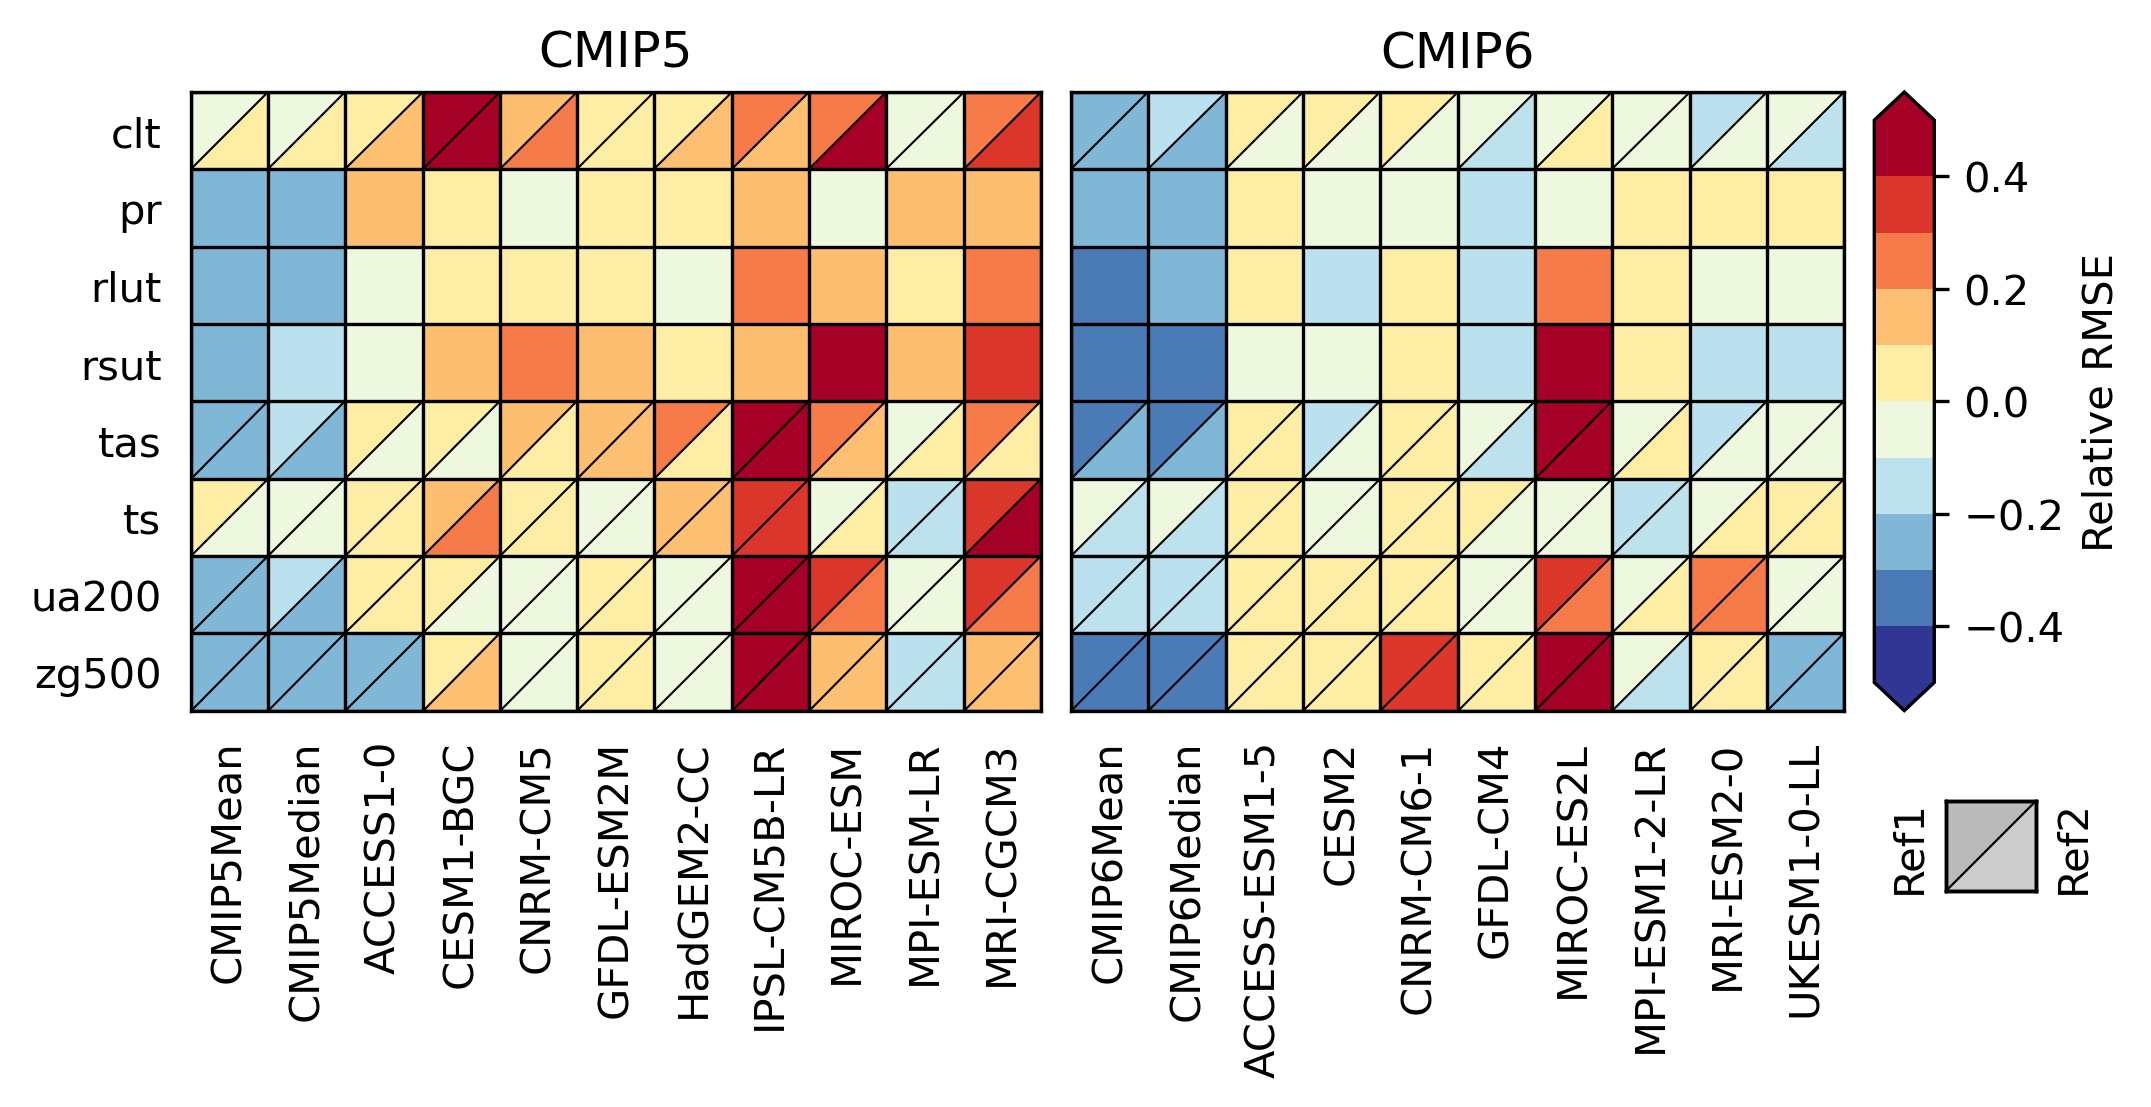
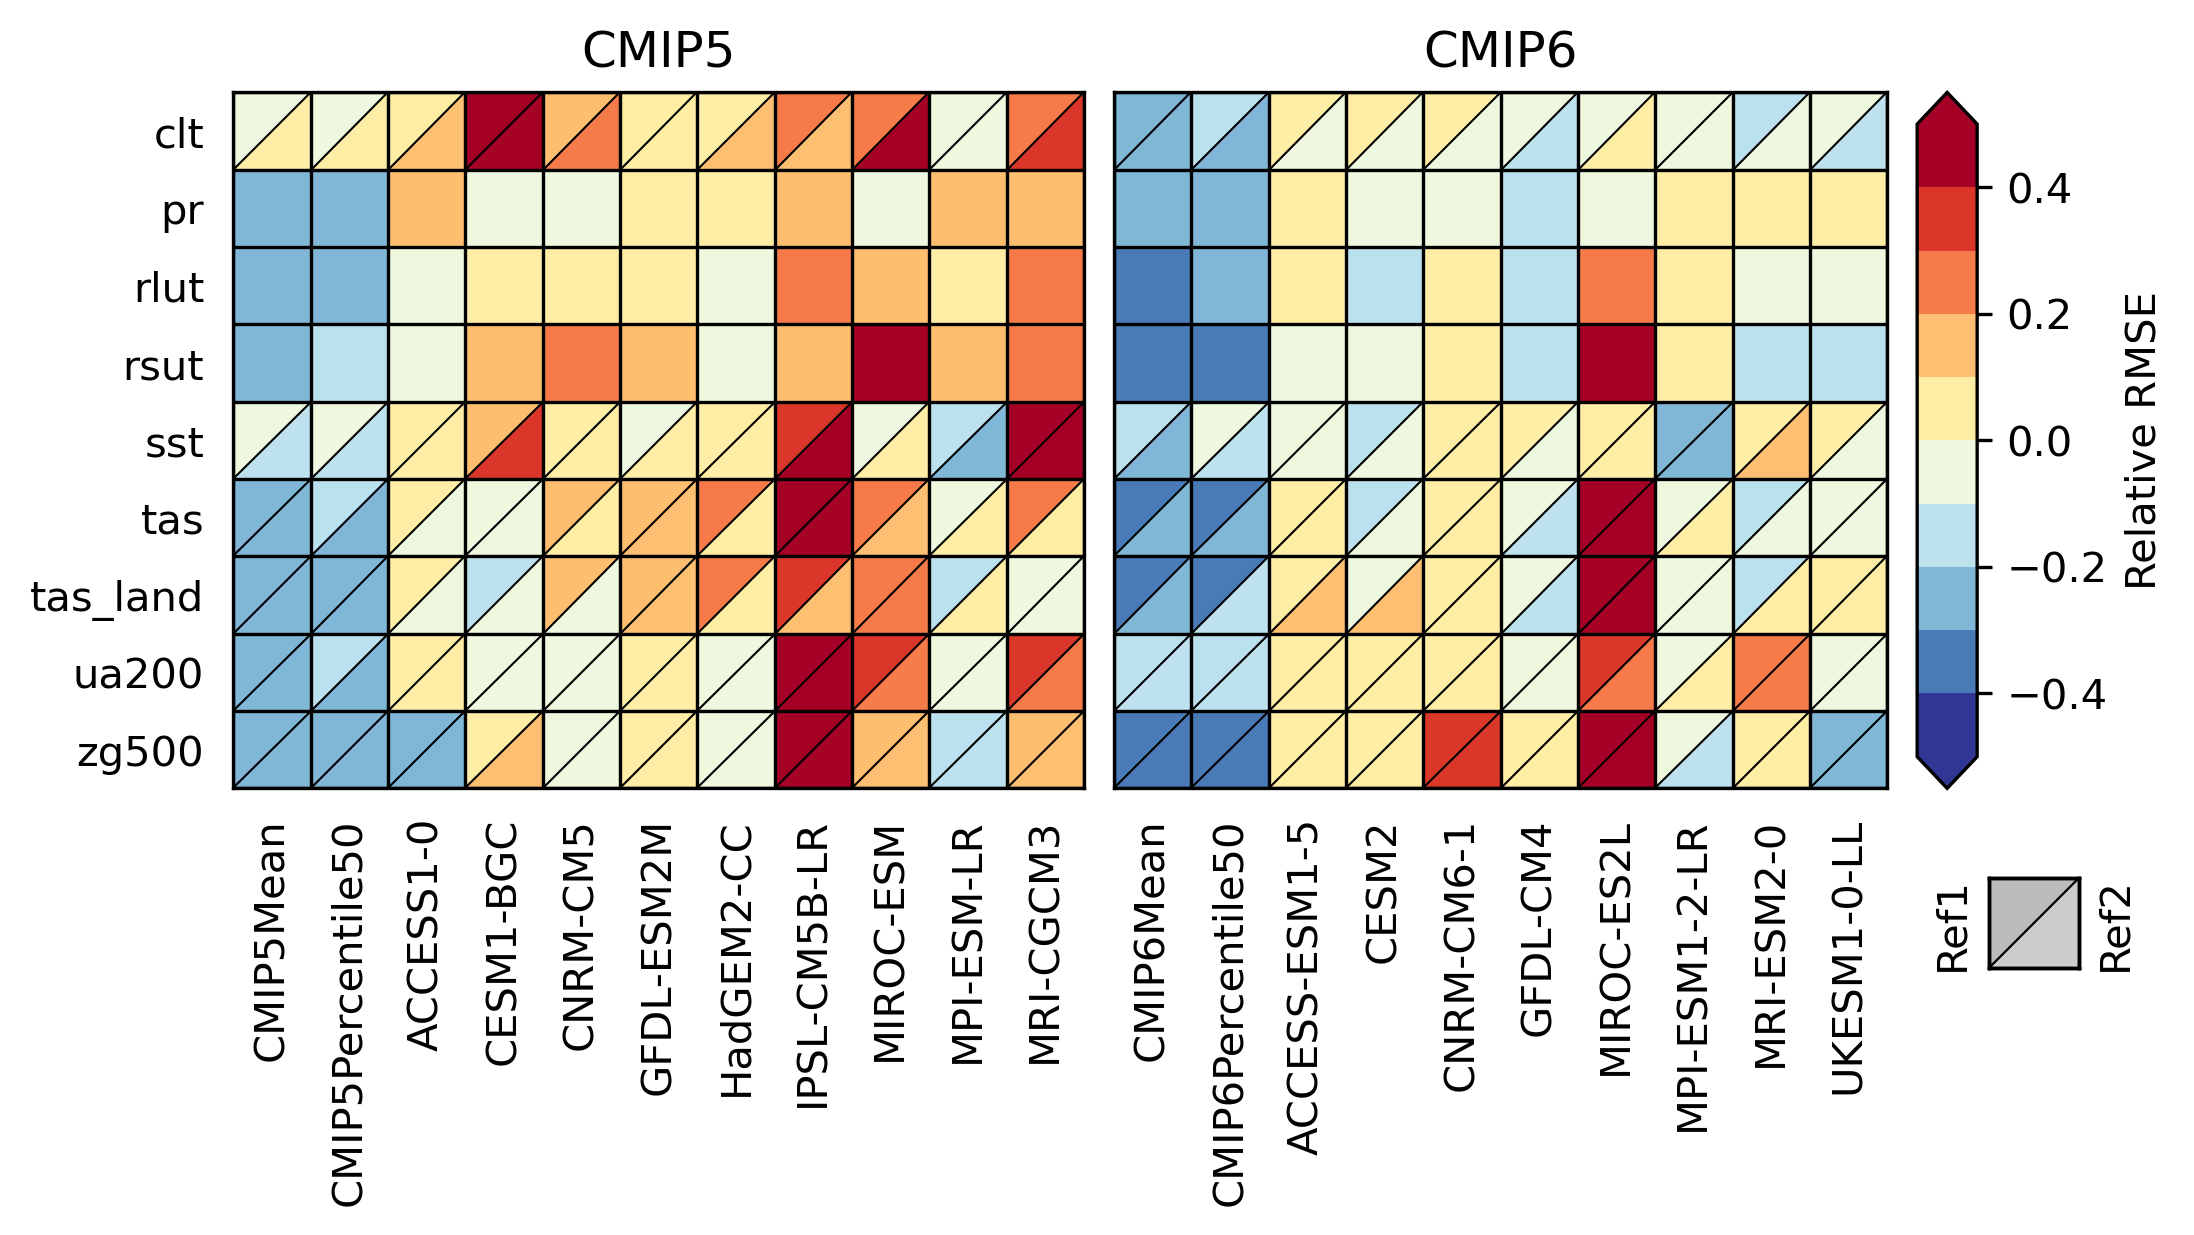
update docs

diff --git a/doc/sphinx/source/recipes/recipe_portrait.rst b/doc/sphinx/source/recipes/recipe_portrait.rst
@@ -57,13 +57,15 @@ Variables and Datasets
 
 The following list shows which observational dataset is used as reference for
 each variable in this recipe. All variables are atmospheric monthly means.
-For 3D variables the selected pressure level is specified in parentheses.
+For 3D variables the selected pressure level is specified. Surface temperature
+is also shown as land-only and sea-only variable.
 
 * clt (Ref1: ESACCI-CLOUD, Ref2: PATMOS-x)
 * pr (Ref1: GPCP-V2.2)
 * rlut, rsut (Ref1: CERES-EBAF)
 * tas (Ref1: ERA-Interim, Ref2: NCEP-NCAR-R1)
-* ts (Ref1: ESACCI-SST, Ref2: HadISST)
+* tas_land (Land only, Ref1: ERA-Interim, Ref2: NCEP-NCAR-R1)
+* sst (Sea only, Ref1: ESACCI-SST, Ref2: HadISST)
 * ua (200 hPa, Ref1: ERA-Interim, Ref2: NCEP-NCAR-R1)
 * zg (500 hPa, Ref1: ERA-Interim, Ref2: NCEP-NCAR-R1)
 
